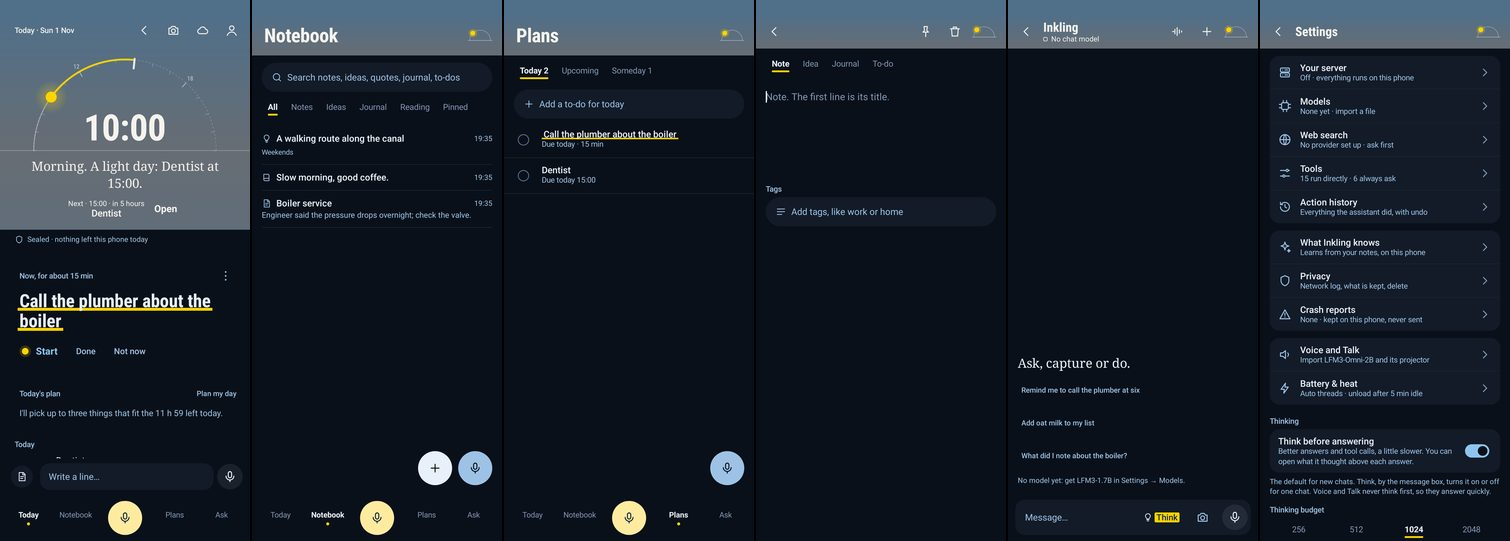
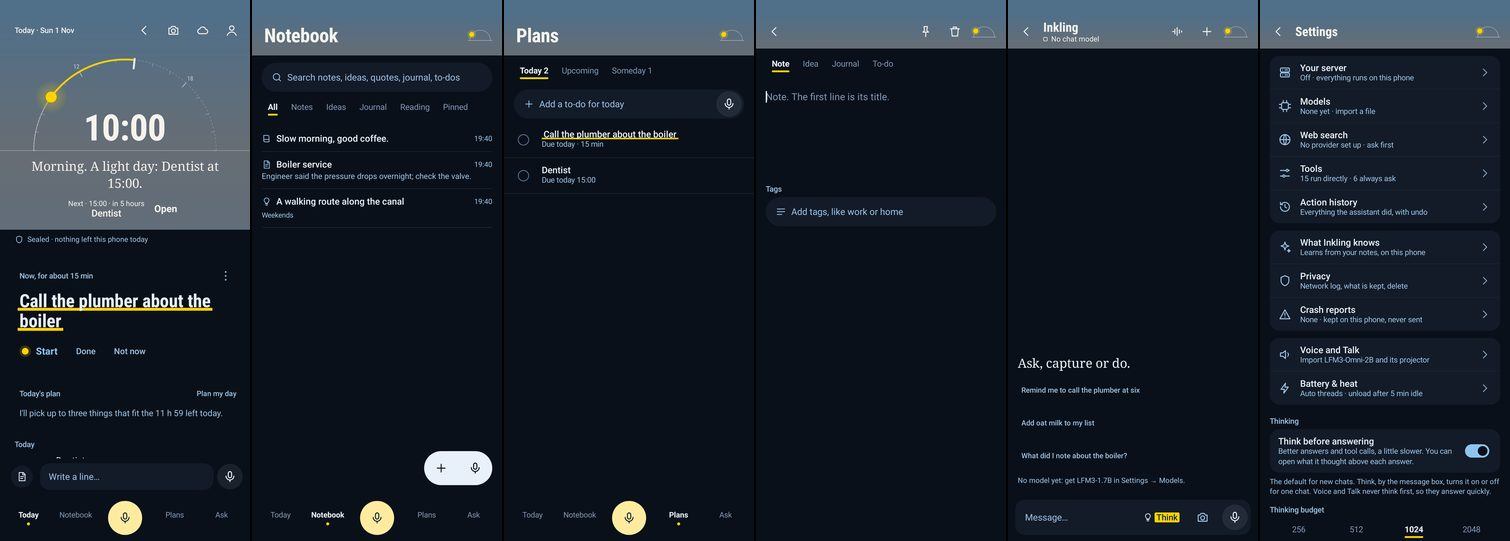
LFMP-20: one round button above the bar (Plans' mic in its add line, Notebook's + and mic in one pill), haptic small wins, dial range 07-22

diff --git a/app/src/main/java/com/lfmpixel/lfm/ui/components/Components.kt b/app/src/main/java/com/lfmpixel/lfm/ui/components/Components.kt
@@ -336,7 +336,12 @@ fun CheckBox(checked: Boolean, onChange: ((Boolean) -> Unit)?) {
     val shape = LfmShape.round
     // A ring; done, it fills with the sun and pops a little: a small win, seen. With no onChange the row around it
     // takes the tap (and says the state); the ring only draws.
-    Box(Modifier.size(48.dp).let { m -> onChange?.let { m.toggleable(checked, role = Role.Checkbox, onValueChange = it) } ?: m },
+    val view = androidx.compose.ui.platform.LocalView.current
+    // A small win, felt: a confirm tick when it is ticked (through the view, so it follows the phone's touch feedback).
+    Box(Modifier.size(48.dp).let { m -> onChange?.let { m.toggleable(checked, role = Role.Checkbox, onValueChange = { on ->
+        if (on) view.performHapticFeedback(android.view.HapticFeedbackConstants.CONFIRM)
+        it(on)
+    }) } ?: m },
         contentAlignment = Alignment.Center) {
         val motion = com.lfmpixel.lfm.ui.theme.LfmMotion
         val fill by androidx.compose.animation.animateColorAsState(if (checked) c.highlight else Color.Transparent, motion.spec(motion.TINY), label = "box")
@@ -438,6 +443,18 @@ fun Fab(icon: String, onClick: () -> Unit, desc: String, modifier: Modifier = Mo
     val shape = LfmShape.round
     Box(modifier.size(56.dp).clip(shape).background(c.text).clickable(role = Role.Button, onClick = onClick).semantics { contentDescription = desc },
         contentAlignment = Alignment.Center) { LIcon(icon, tint = c.bg) }
+}
+
+/** One navy pill with + (write something new) and the mic (say it), each a 56 dp target; listening, the mic half shows Stop. */
+@Composable
+fun NewPill(onNew: () -> Unit, newDesc: String, onMic: () -> Unit, listening: Boolean, modifier: Modifier = Modifier) {
+    val c = Lfm.c
+    Row(modifier.height(56.dp).clip(LfmShape.pill).background(c.text), verticalAlignment = Alignment.CenterVertically) {
+        Box(Modifier.size(56.dp).clickable(role = Role.Button, onClick = onNew).semantics { contentDescription = newDesc },
+            contentAlignment = Alignment.Center) { LIcon("plus", tint = c.bg) }
+        Box(Modifier.size(56.dp).clickable(role = Role.Button, onClick = onMic).semantics { contentDescription = if (listening) "Stop listening" else "Speak" },
+            contentAlignment = Alignment.Center) { LIcon(if (listening) "stop" else "mic", tint = c.bg) }
+    }
 }
 
 /** A search or quick-add line: always visible, keyboard up when [focus] is set. Enter calls [onDone]. */

diff --git a/app/src/main/java/com/lfmpixel/lfm/ui/screens/TodosScreen.kt b/app/src/main/java/com/lfmpixel/lfm/ui/screens/TodosScreen.kt
@@ -102,7 +102,9 @@ fun TodosScreen(g: AppGraph, nav: Nav, onMic: () -> Unit, listening: Boolean) {
                 { l -> tab = TodoTab.entries.first { l.startsWith(it.label) } }, Modifier.padding(horizontal = 16.dp))
             InputLine(adding, { adding = it }, when (tab) { TodoTab.Today -> "Add a to-do for today"; TodoTab.Upcoming -> "Add a to-do for tomorrow"; TodoTab.Someday -> "Add a to-do, no date" },
                 "plus", Modifier.padding(horizontal = 16.dp), focus = focus, imeAction = ImeAction.Done, onDone = add) {
+                // Say a to-do: the mic sits in the line it fills, so the only round button below is the talk button.
                 if (adding.isNotBlank()) IconButtonPlain("send", add, tint = c.text, desc = "Add")
+                else MicButton(onMic, listening = listening)
             }
             LazyColumn(Modifier.fillMaxSize().padding(top = 6.dp)) {
                 // Not before the to-dos are read: "Nothing due today" must not flash before the list.
@@ -124,7 +126,6 @@ fun TodosScreen(g: AppGraph, nav: Nav, onMic: () -> Unit, listening: Boolean) {
                 item { Spacer(Modifier.height(96.dp)) }
             }
         }
-        MicButton(onMic, Modifier.align(Alignment.BottomEnd).padding(16.dp).padding(bottom = snackLift(nav)), size = 56.dp, listening = listening, floating = true)
     }
 }
 

diff --git a/app/src/main/java/com/lfmpixel/lfm/ui/screens/LibraryScreen.kt b/app/src/main/java/com/lfmpixel/lfm/ui/screens/LibraryScreen.kt
@@ -53,6 +53,7 @@ import com.lfmpixel.lfm.ui.components.LIcon
 import com.lfmpixel.lfm.ui.components.Label
 import com.lfmpixel.lfm.ui.components.Marked
 import com.lfmpixel.lfm.ui.components.MicButton
+import com.lfmpixel.lfm.ui.components.NewPill
 import com.lfmpixel.lfm.ui.components.SwipeAction
 import com.lfmpixel.lfm.ui.components.SwipeRow
 import com.lfmpixel.lfm.ui.components.Tabs
@@ -167,10 +168,9 @@ fun LibraryScreen(g: AppGraph, nav: Nav, filter: LibFilter, onMic: (EntryKind) -
                 }
             }
         }
-        Row(Modifier.align(Alignment.BottomEnd).padding(16.dp).padding(bottom = snackLift(nav)), horizontalArrangement = Arrangement.spacedBy(10.dp)) {
-            Fab("plus", { nav.go(Route.Editor(kind = filter.kind)) }, "New ${filter.kind.label.lowercase()}")
-            MicButton({ onMic(filter.kind) }, size = 56.dp, listening = listening, floating = true)
-        }
+        // New, written or said: one navy pill holding + and the mic, not two buttons.
+        NewPill({ nav.go(Route.Editor(kind = filter.kind)) }, "New ${filter.kind.label.lowercase()}", { onMic(filter.kind) }, listening,
+            Modifier.align(Alignment.BottomEnd).padding(16.dp).padding(bottom = snackLift(nav)))
     }
 }
 

diff --git a/app/src/main/java/com/lfmpixel/lfm/ui/components/Surfaces.kt b/app/src/main/java/com/lfmpixel/lfm/ui/components/Surfaces.kt
@@ -81,7 +81,7 @@ fun PlaceTitle(title: String, modifier: Modifier = Modifier, below: @Composable 
 }
 
 /**
- * Horizon Almanac's signature, on every screen's header: the waking day as a small half dial (06:00 to 22:00) with the
+ * Horizon Almanac's signature, on every screen's header: the waking day as a small half dial (07:00 to 22:00, as Today's dial) with the
  * sun on it at now, or the moon resting on the horizon at night. Moves only when the minute changes; TalkBack skips it
  * (the time is in the status bar).
  */
@@ -89,7 +89,7 @@ fun PlaceTitle(title: String, modifier: Modifier = Modifier, below: @Composable 
 fun SunMark(modifier: Modifier = Modifier) {
     val c = Lfm.c
     val now by rememberNow()
-    val f = (now.hour * 60 + now.minute - 360) / 960f
+    val f = (now.hour * 60 + now.minute - 420) / 900f
     androidx.compose.foundation.Canvas(modifier.width(40.dp).height(22.dp)) {
         val r = size.width / 2 - 3.dp.toPx()
         val cx = size.width / 2

diff --git a/app/src/main/java/com/lfmpixel/lfm/ui/screens/TodayScreen.kt b/app/src/main/java/com/lfmpixel/lfm/ui/screens/TodayScreen.kt
@@ -237,7 +237,6 @@ private fun DayPage(g: AppGraph, nav: Nav, day: LocalDate, today: LocalDate, tur
                 IconButtonPlain("back", { turn(day.minusDays(1)) }, desc = "The day before")
                 if (!isToday) IconButtonPlain("right", { turn(day.plusDays(1)) }, desc = "The day after")
                 if (isToday) IconButtonPlain("cloud", { nav.go(Route.Dump()) }, desc = "Brain dump")
-                IconButtonPlain("chat", { nav.go(Route.Chat) }, desc = "Ask Inkling")
                 IconButtonPlain("user", { nav.go(Route.Settings) }, desc = "Settings")
                 com.lfmpixel.lfm.ui.components.SunMark(Modifier.padding(start = 4.dp, end = 10.dp))
             }

diff --git a/app/src/main/java/com/lfmpixel/lfm/ui/screens/OrganizerViews.kt b/app/src/main/java/com/lfmpixel/lfm/ui/screens/OrganizerViews.kt
@@ -230,7 +230,8 @@ internal fun NowCard(g: AppGraph, nav: Nav, now: NextAction.Now?, planEmpty: Boo
                         g.focus.start(n.entry.id, n.entry.title, n.minutes)
                         nav.go(Route.Focus)
                     }, kind = BtnKind.Primary)
-                    Btn("Done", { org.done(n.entry) })
+                    val view = androidx.compose.ui.platform.LocalView.current
+                    Btn("Done", { view.performHapticFeedback(android.view.HapticFeedbackConstants.CONFIRM); org.done(n.entry) })
                     Btn("Not now", { nav.skipped.remove(n.entry.id); nav.skipped.add(n.entry.id) })
                 }
             }

diff --git a/docs/ux-spec.md b/docs/ux-spec.md
@@ -72,9 +72,11 @@ outside the components, a platform dialog, a colour written out in a widget's la
   blue words. No box, no edge; the 44 dp target is still there.
 - **Tabs and choices are words** (`Tabs`, `Segmented`): the picked one navy and bold with the highlighter's stroke drawn
   in under it.
-- **Switches** are round, the action blue when on; **check boxes** are rings that fill with the sun.
-- **The mic**: the primary one (Talk's own, the bottom bar's) is the pastel; dictation mics elsewhere are a quiet fill,
-  so a screen never has two yellow buttons. The + for a new entry is a navy circle.
+- **Switches** are round, the action blue when on; **check boxes** are rings that fill with the sun and give a
+  confirm tick (haptic, as Now's Done does): a small win, felt.
+- **The mic**: the primary one (Talk's own, the bottom bar's) is the pastel; dictation mics sit inside the line they
+  fill (the Ink line, Plans' add line, the message box) as a quiet fill, so the only round button above the bar is
+  Notebook's navy pill holding + and the mic.
 - **The highlighter** (`Marked`) is a stroke from just above the baseline to under it, drawn in from the left the
   first time.
 - **The signature** (`SunMark`): every header on the sky ends with a small half dial with the sun on it at now (the
@@ -139,7 +141,7 @@ The app's copy follows it: first person where Inkling speaks ("I'm listening", "
 
 From the top: the sky (as tall as its words need), then the page.
 
-- **In the sky:** the date, then the day before, Look, brain dump and settings; the day as a half dial (06:00–22:00,
+- **In the sky:** the date, then the day before, Look, brain dump and settings; the day as a half dial (07:00–22:00,
   stretched for early or late plans) with an hour tick each hour, plans as bold marks, the sun at now and the stretch
   to the next plan in yellow; the time inside the dial, its foot on the horizon. Every header on the sky elsewhere
   ends with the SunMark.
